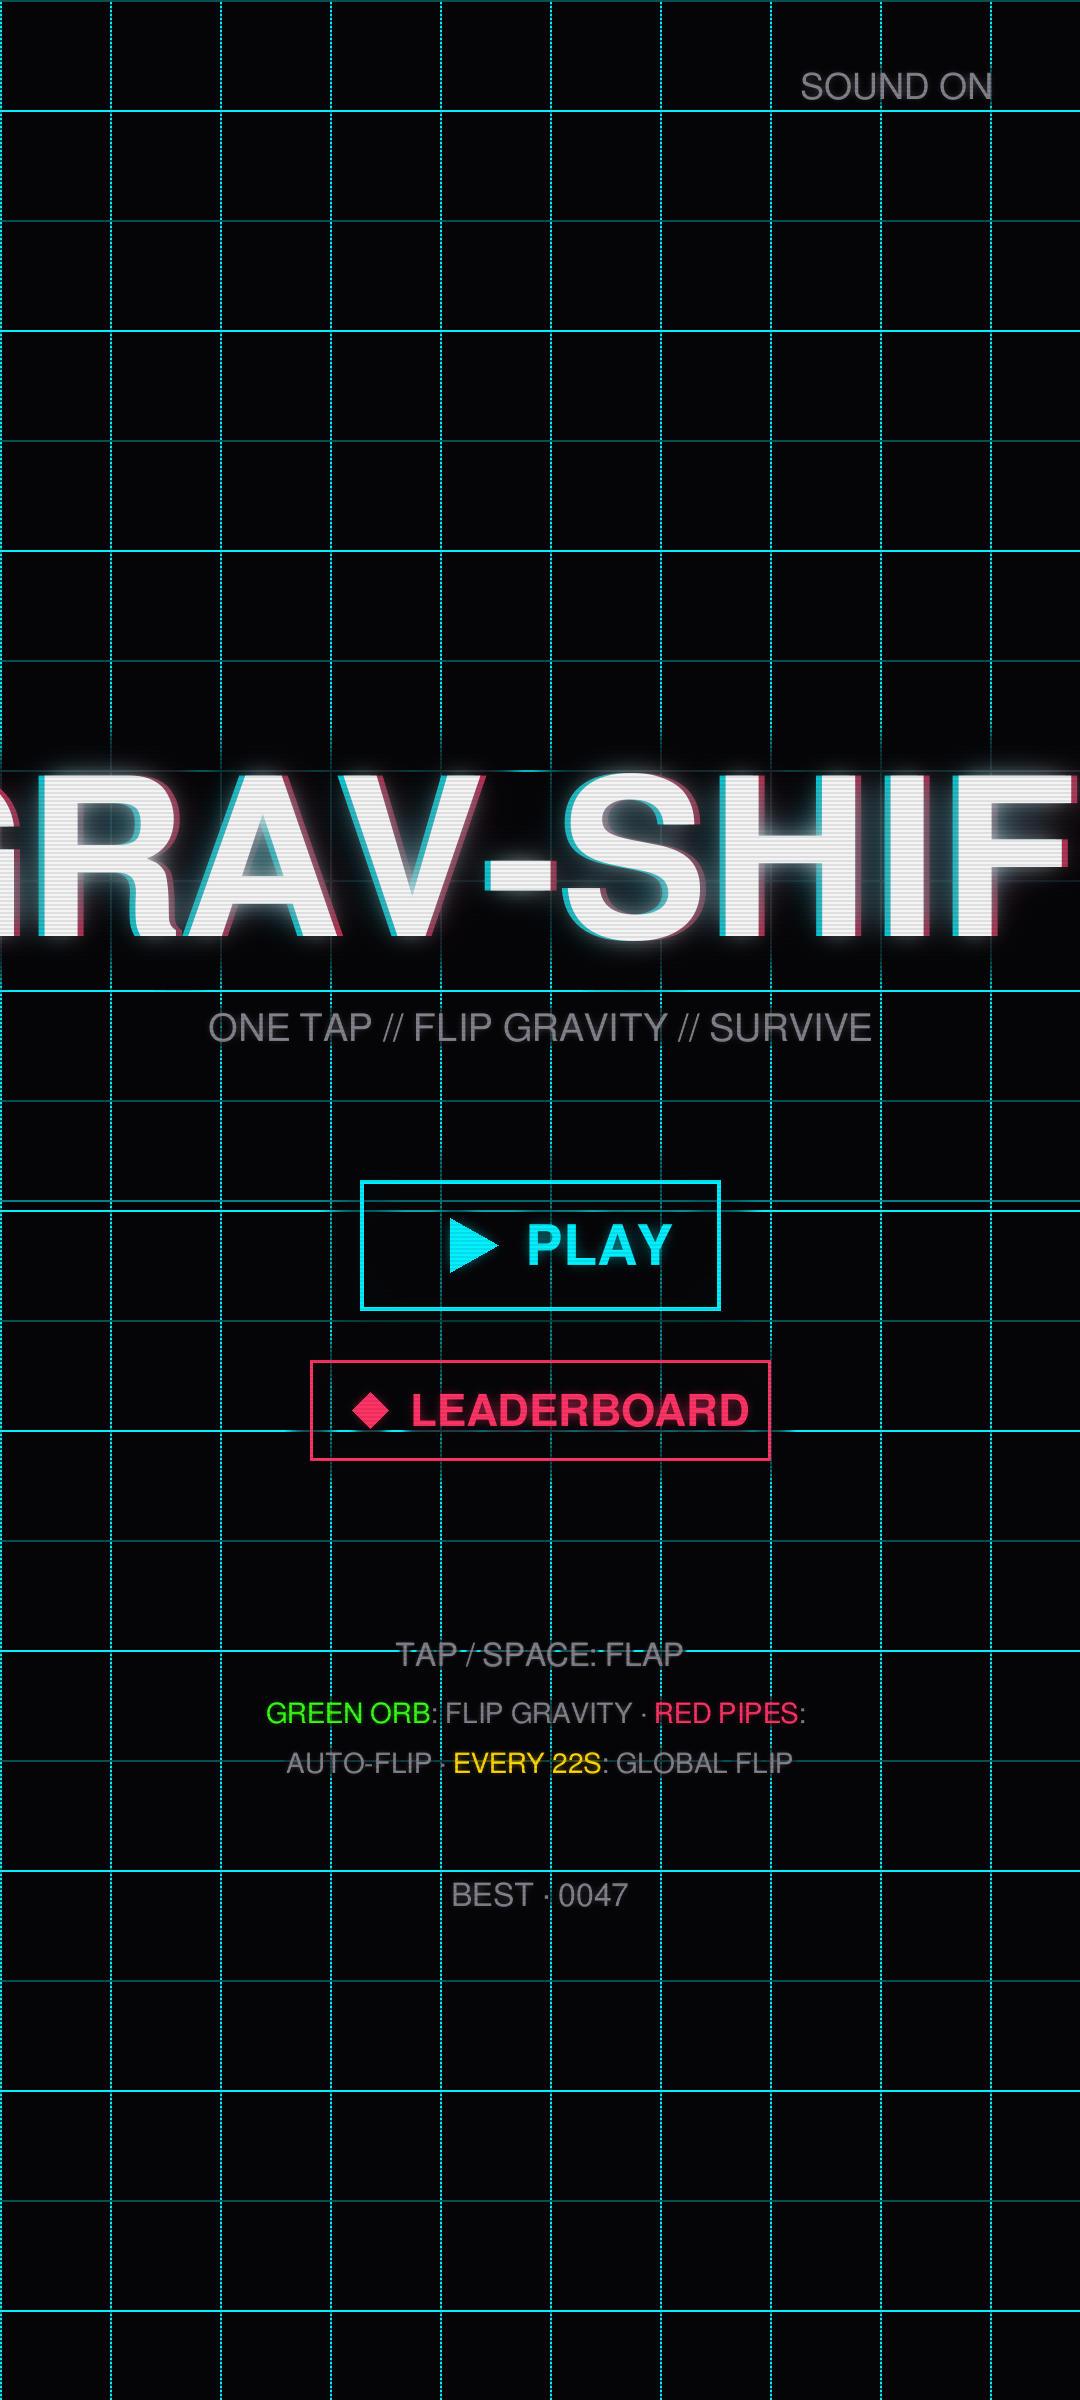
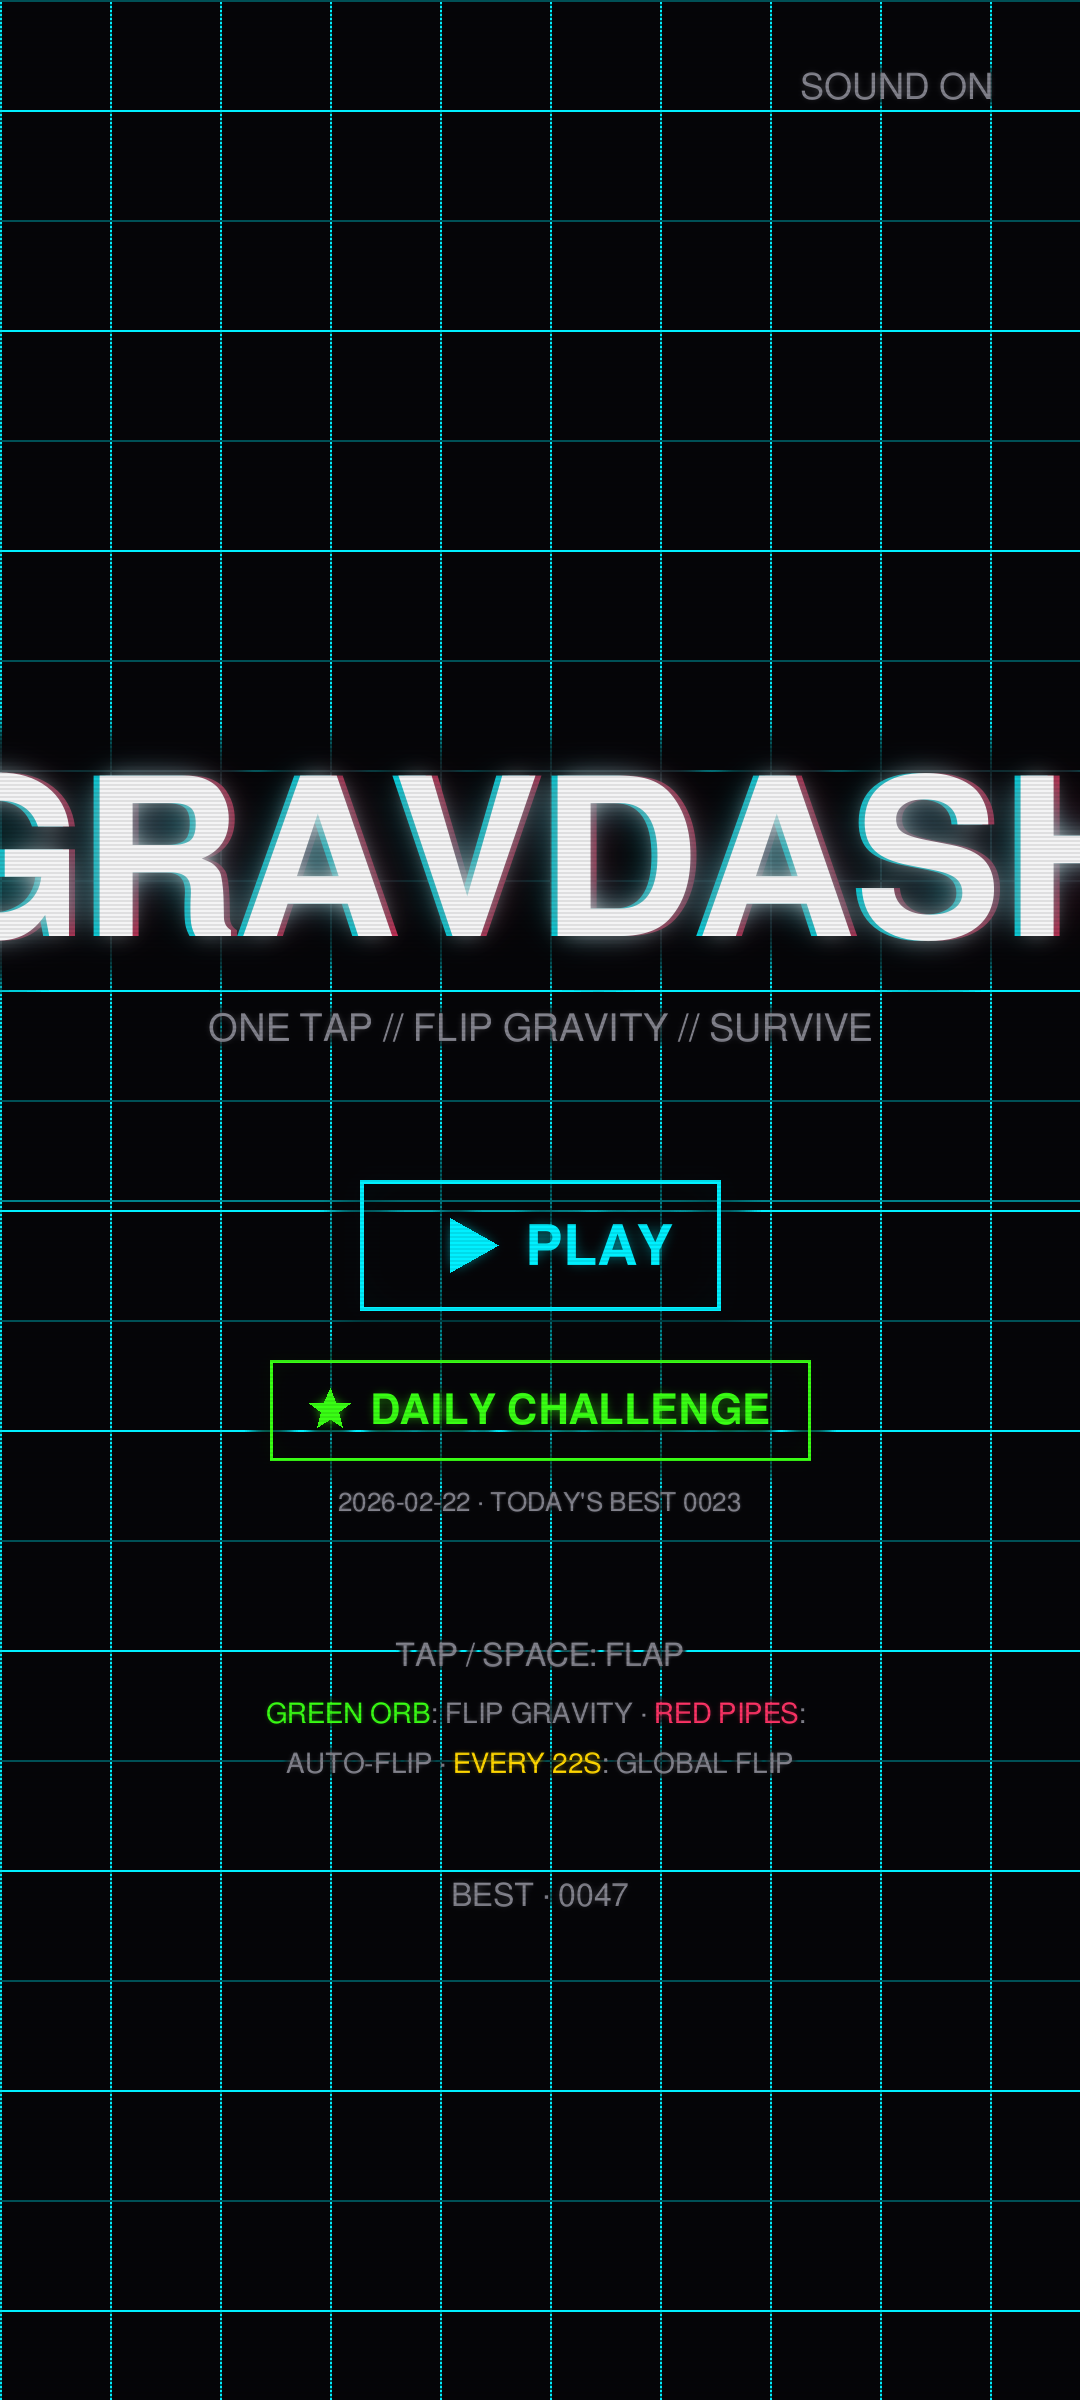
auto-commit for 3abc5433-3a29-4c20-9ba0-5c149c77f52f

Changed region(s): [[0.0, 0.3125, 1.0, 0.4062], [0.2444, 0.5625, 0.7333, 0.625]]

diff --git a/scripts/gen_phone_screenshots.py b/scripts/gen_phone_screenshots.py
@@ -165,6 +165,33 @@ def draw_particles(canvas, cx, cy, n=10, color=CYAN):
     canvas.alpha_composite(layer)
 
 
+def draw_thruster_trail(canvas, ship_x, ship_y):
+    """The new cyan/magenta two-tone thruster trail trailing behind the ship.
+    Recreates the in-game emitThrusterParticle visual (~20 live particles)."""
+    layer = Image.new("RGBA", canvas.size, (0, 0, 0, 0))
+    d = ImageDraw.Draw(layer)
+    import random
+    random.seed(7)
+    # 20 particles spaced backward from the ship, fading with distance
+    for i in range(22):
+        # Each particle is "older" the further left it is
+        age = (i + 1) / 22.0  # 0..1
+        # x: trailing left from the ship in an arc that matches the recent flight path
+        px = ship_x - 30 - (age * 220) + random.randint(-6, 6)
+        # y: curve upward slightly (ship was flapping up just before)
+        py = ship_y + (age * 30) + random.randint(-8, 8)
+        # Alternate cyan/magenta per particle
+        color = CYAN if i % 2 == 0 else CORAL
+        # Size shrinks with age
+        r = max(2, int(5 - age * 4))
+        # Alpha fades with age
+        a = int(255 * (1.0 - age * 0.85))
+        d.ellipse([px - r, py - r, px + r, py + r], fill=color + (a,))
+    glow = layer.filter(ImageFilter.GaussianBlur(6))
+    canvas.alpha_composite(glow)
+    canvas.alpha_composite(layer)
+
+
 def draw_scanlines(canvas, alpha=30):
     layer = Image.new("RGBA", canvas.size, (0, 0, 0, 0))
     d = ImageDraw.Draw(layer)
@@ -219,27 +246,34 @@ def make_phone_1():
     img.alpha_composite(tri_layer)
     neon_text(img, "PLAY", (bx + 165, by + 40), 56, CYAN, glow_radius=8)
 
-    # LEADERBOARD button
+    # DAILY CHALLENGE button (replaces removed Leaderboard button)
     by2 = 1360
-    bw2, bh2 = 460, 100
+    bw2, bh2 = 540, 100
     bx2 = (W - bw2) // 2
     glow2 = Image.new("RGBA", img.size, (0, 0, 0, 0))
     gd2 = ImageDraw.Draw(glow2)
-    gd2.rectangle([bx2, by2, bx2 + bw2, by2 + bh2], outline=CORAL + (255,), width=3)
+    gd2.rectangle([bx2, by2, bx2 + bw2, by2 + bh2], outline=GREEN + (255,), width=3)
     glow2_blur = glow2.filter(ImageFilter.GaussianBlur(10))
     img.alpha_composite(glow2_blur)
     img.alpha_composite(glow2)
-    # Diamond icon (drawn as polygon)
-    dia_layer = Image.new("RGBA", img.size, (0, 0, 0, 0))
-    dld = ImageDraw.Draw(dia_layer)
-    dcx, dcy = bx2 + 60, by2 + 50
-    dld.polygon(
-        [(dcx, dcy - 18), (dcx + 18, dcy), (dcx, dcy + 18), (dcx - 18, dcy)],
-        fill=CORAL + (255,),
-    )
-    img.alpha_composite(dia_layer.filter(ImageFilter.GaussianBlur(6)))
-    img.alpha_composite(dia_layer)
-    neon_text(img, "LEADERBOARD", (bx2 + 100, by2 + 30), 44, CORAL, glow_radius=6)
+    # Star icon (5-point star polygon)
+    star_layer = Image.new("RGBA", img.size, (0, 0, 0, 0))
+    sld = ImageDraw.Draw(star_layer)
+    scx, scy = bx2 + 60, by2 + 50
+    star_pts = []
+    for i in range(10):
+        ang = -math.pi / 2 + i * math.pi / 5
+        r = 22 if i % 2 == 0 else 9
+        star_pts.append((scx + math.cos(ang) * r, scy + math.sin(ang) * r))
+    sld.polygon(star_pts, fill=GREEN + (255,))
+    img.alpha_composite(star_layer.filter(ImageFilter.GaussianBlur(6)))
+    img.alpha_composite(star_layer)
+    neon_text(img, "DAILY CHALLENGE", (bx2 + 100, by2 + 30), 42, GREEN, glow_radius=6)
+
+    # Today's date + best (matches in-game menu)
+    daily_info = "2026-02-22 · TODAY'S BEST 0023"
+    diw, _ = text_size(daily_info, 26, bold=False)
+    neon_text(img, daily_info, ((W - diw) // 2, 1490), 26, GREY_DIM, glow_radius=2, bold=False)
 
     # Controls hint (3 lines, color-coded keywords)
     hint_y = 1640
@@ -317,7 +351,7 @@ def make_phone_2():
 
     # ---- Ship: just past pipe 1, banking up slightly ----
     ship_x, ship_y = 320, 1080
-    draw_particles(img, ship_x - 50, ship_y, n=14, color=CYAN)
+    draw_thruster_trail(img, ship_x, ship_y)
     draw_ship(img, ship_x, ship_y, size=44, rotation=-0.25)
 
     # ---- Orb between pipes 1 and 2 ----